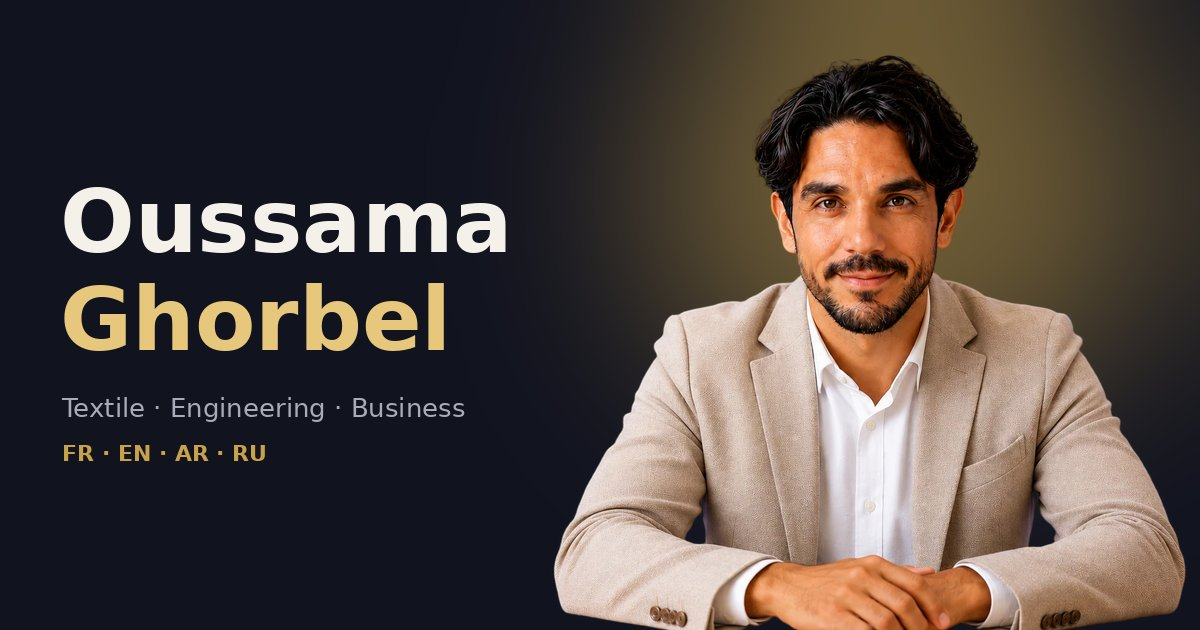
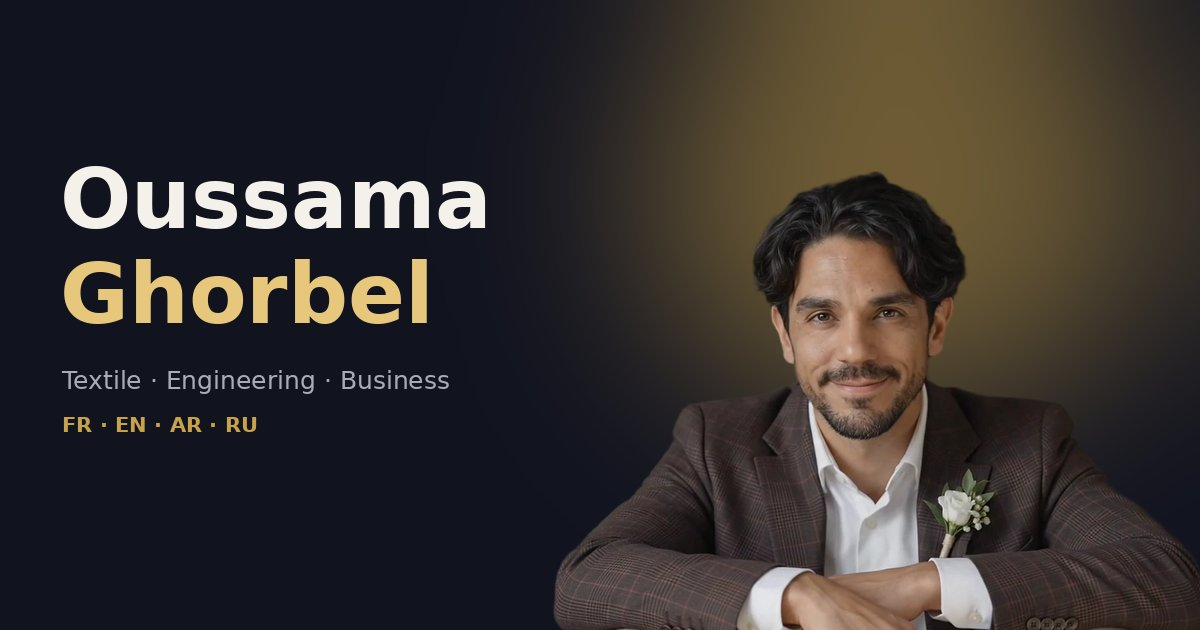
Personnage du hero tiré de la vidéo, retrait du portrait à la chaise
- Nouveau personnage détouré à partir d'une image de la vidéo
  (costume marron, fleur à la boutonnière), plus grand sur ordinateur
- Portrait « chaise en bois » retiré du site et du dépôt, à la demande
  d'Oussama ; la section « À propos » retrouve sa mise en page
- Image de partage régénérée

Claude-Session: https://claude.ai/code/session_01As61zwWUsi78Kgt2U3fM1h

diff --git a/assets/css/site.css b/assets/css/site.css
@@ -178,7 +178,7 @@ html[dir="rtl"] .hero__name { text-align: right; letter-spacing: -.045em; line-h
 .hero__grid { z-index: 1; }
 
 .hero__stage { position: relative; align-self: end; display: flex; justify-content: center; align-items: flex-end; min-height: 60vh; }
-.hero__figure { position: relative; z-index: 2; width: min(122%, 820px); margin-inline: -11%; line-height: 0; }
+.hero__figure { position: relative; z-index: 2; width: min(132%, 900px); margin-inline: -16%; line-height: 0; }
 .hero__person {
   display: block; width: 100%; height: auto; max-width: none;
   filter: drop-shadow(0 0 40px rgba(200, 162, 74, .22)) drop-shadow(0 30px 50px rgba(0, 0, 0, .5));
@@ -249,29 +249,7 @@ html[lang="ar"] .marquee__group span { font-family: var(--font-ar); letter-spaci
 .section__lead { color: var(--muted); font-size: 1.08rem; }
 
 /* ---------- About ---------- */
-.about { display: grid; grid-template-columns: .82fr 1.18fr; gap: clamp(40px, 7vw, 110px); align-items: center; }
-.about .domains { grid-column: 1 / -1; grid-template-columns: repeat(4, 1fr); margin-top: 24px; }
-
-/* Portrait : masque en arche, image en parallaxe, cadre décalé, badge tournant */
-.about__portrait { position: relative; margin: 0; }
-.about__mask {
-  position: relative; z-index: 1; overflow: hidden; aspect-ratio: 853 / 1280;
-  border-radius: 999px 999px 24px 24px; background: var(--ink);
-  box-shadow: 0 40px 80px -40px rgba(17, 19, 31, .6);
-}
-.about__mask picture, .about__img { display: block; width: 100%; height: 100%; }
-.about__img { object-fit: cover; transform: scale(1.12); will-change: transform; }
-.about__frame {
-  position: absolute; inset: 22px -22px -22px 22px; border-radius: 999px 999px 24px 24px;
-  border: 1.5px solid var(--gold); opacity: .7;
-}
-html[dir="rtl"] .about__frame { inset: 22px 22px -22px -22px; }
-.about__badge {
-  position: absolute; z-index: 2; width: clamp(110px, 12vw, 150px); bottom: 12%; inset-inline-end: -48px;
-  border-radius: 50%; background: var(--ink); box-shadow: 0 18px 40px -16px rgba(0, 0, 0, .6);
-}
-.about__badge svg { display: block; width: 100%; height: auto; animation: spin 22s linear infinite; }
-.about__badge text { font: 700 13px/1 var(--font); fill: var(--gold-2); }
+.about { display: grid; grid-template-columns: 1fr 1.05fr; gap: 64px; align-items: start; }
 
 /* ---------- Showreel ---------- */
 .showreel { position: relative; background: var(--ink); color: var(--on-dark); }
@@ -487,8 +465,6 @@ html[dir="rtl"] .about blockquote { border-radius: 14px 0 0 14px; }
   }
   .hero__bigword { inset: 30vh 0 auto 0; }
   .about { gap: 40px; }
-  .about__portrait { width: min(78%, 420px); margin-inline: auto; }
-  .about .domains { grid-template-columns: 1fr 1fr; }
 }
 @media (max-width: 860px) {
   .burger { display: block; }
@@ -507,8 +483,7 @@ html[dir="rtl"] .about blockquote { border-radius: 14px 0 0 14px; }
   .stats__grid { grid-template-columns: 1fr 1fr; }
   .stat:nth-child(3) { border-inline-start: 0; }
   .stat:nth-child(n+3) { border-top: 1px solid rgba(255, 255, 255, .07); }
-  .domains, .about .domains { grid-template-columns: 1fr; }
-  .about__badge { inset-inline-end: -24px; }
+  .domains { grid-template-columns: 1fr; }
   .showreel__frame { inset: 14vh 0 auto 0; height: 52vh; }
   .showreel__shade { background: linear-gradient(180deg, transparent 60%, rgba(17, 19, 31, .6) 100%); }
   .showreel__caption { inset-inline-end: 20px; top: calc(66vh + 22px); bottom: auto; }

diff --git a/index.html b/index.html
@@ -93,7 +93,7 @@
             <svg viewBox="0 0 100 100"><circle cx="50" cy="50" r="48"/><circle cx="50" cy="50" r="38" class="dash"/></svg>
           </div>
           <div class="hero__figure" data-depth="0.7">
-            <img class="hero__person" src="assets/img/oussama-cutout.webp" alt="Portrait d'Oussama Ghorbel" width="1013" height="948" fetchpriority="high">
+            <img class="hero__person" src="assets/img/oussama-cutout.webp" alt="Portrait d'Oussama Ghorbel" width="1226" height="852" fetchpriority="high">
             <span class="hero__sheen" aria-hidden="true"></span>
           </div>
           <span class="chip chip--business" data-depth="1.4" data-domain-label="business"></span>
@@ -154,20 +154,6 @@
     <!-- ABOUT -->
     <section class="section" id="about">
       <div class="wrap about">
-        <figure class="about__portrait">
-          <div class="about__frame" aria-hidden="true"></div>
-          <div class="about__mask">
-            <picture>
-              <source srcset="assets/img/oussama-portrait.webp" type="image/webp">
-              <img class="about__img" src="assets/img/oussama-portrait.jpg" alt="Oussama Ghorbel" width="853" height="1280" loading="lazy">
-            </picture>
-          </div>
-          <div class="about__badge" aria-hidden="true"><svg viewBox="0 0 200 200">
-            <defs><path id="badgeCircle" d="M100 100 m-78 0 a78 78 0 1 1 156 0 a78 78 0 1 1 -156 0"/></defs>
-            <text><textPath href="#badgeCircle" textLength="486" lengthAdjust="spacing">OUSSAMA GHORBEL · ENGINEER · ENTREPRENEUR ·</textPath></text>
-            <image href="assets/img/logo.svg" x="70" y="70" width="60" height="60"/>
-          </svg></div>
-        </figure>
         <div class="about__text reveal">
           <p class="kicker" data-i18n="about.kicker">À propos</p>
           <h2 data-i18n="about.title">Un profil hybride, au croisement de plusieurs mondes</h2>

diff --git a/assets/js/motion.js b/assets/js/motion.js
@@ -169,24 +169,6 @@
     });
   }
 
-  /* ---------- Portrait « À propos » : révélation et parallaxe ---------- */
-
-  if (document.querySelector(".about__portrait")) {
-    gsap.set(".about__img", { scale: 1.12 });
-    gsap.fromTo(".about__mask", { clipPath: "inset(100% 0% 0% 0%)" }, {
-      clipPath: "inset(0% 0% 0% 0%)", duration: 1.6, ease: "expo.inOut",
-      scrollTrigger: { trigger: ".about__portrait", start: "top 80%" }
-    });
-    gsap.from(".about__img", {
-      scale: 1.45, duration: 2, ease: "expo.out",
-      scrollTrigger: { trigger: ".about__portrait", start: "top 80%" }
-    });
-    var portraitScroll = { trigger: ".about__portrait", start: "top bottom", end: "bottom top", scrub: true };
-    gsap.fromTo(".about__img", { yPercent: -7 }, { yPercent: 7, ease: "none", scrollTrigger: portraitScroll });
-    gsap.fromTo(".about__frame", { y: -40 }, { y: 50, ease: "none", scrollTrigger: portraitScroll });
-    gsap.fromTo(".about__badge", { y: 90 }, { y: -90, ease: "none", scrollTrigger: portraitScroll });
-  }
-
   /* ---------- Bandeau défilant (vitesse liée au scroll) ---------- */
 
   var marqueeTween = null;

diff --git a/assets/css/motion.css b/assets/css/motion.css
@@ -69,5 +69,5 @@ html.lenis, html.lenis body { height: auto; }
 .lenis.lenis-stopped { overflow: hidden; }
 
 @media (prefers-reduced-motion: reduce) {
-  .hero__grain, .hero__orbit svg, .hero__scroll span, .about__badge svg, .hero__sheen { animation: none; }
+  .hero__grain, .hero__orbit svg, .hero__scroll span, .hero__sheen { animation: none; }
 }

diff --git a/.claude/skills/portfolio-site/SKILL.md b/.claude/skills/portfolio-site/SKILL.md
@@ -45,7 +45,10 @@ et le modèle `birefnet-portrait`, installés dans un venv du dossier temporaire
    puis désaturer ce qui reste de la couleur du fond dans les zones de bord (cheveux).
 4. Rogner au cadre utile, exporter en WebP qualité 90, et mettre à jour `width`/`height` dans `index.html`.
 
-La photo originale est gardée dans `assets/images/`.
+Le personnage actuel vient d'une image de la vidéo (à 1,4 s, costume marron, bras croisés),
+choisie comme la plus nette du plan, détourée puis rognée juste au-dessus du dossier de la chaise,
+agrandie de 1,25× avec un léger accentuage. Ne pas réutiliser le portrait « chaise en bois » envoyé
+avec la vidéo : Oussama a demandé de le retirer du site.
 
 ## Vidéo
 
